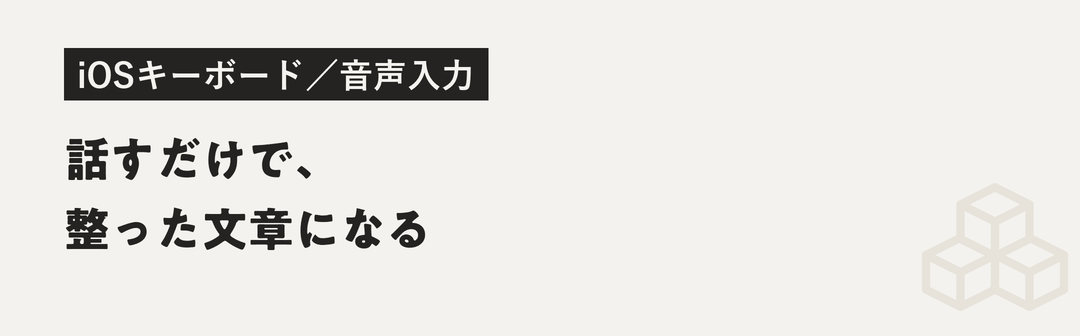
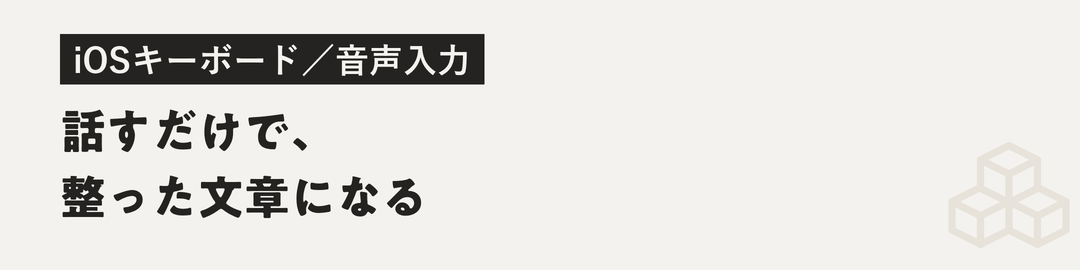
画像をさらに縮小し、スマホ／PCで横幅を分けた
■ 横幅（本人選択）
- スマホ 335→300px（本文より左右18pxずつ内側・中央寄せ）
- PC     440→380px（左寄せ。容器860pxで中央にすると左右240px空いて本文から浮くため）
- CSS を `max-width:300px` ＋ `@media(min-width:481px){380px}` に分離

■ 画面上の文字サイズは据え置き（見出し17.5 / 要点12.5 / キッカー11.9px）
- ⚠ 横幅だけ縮めると画像内の文字も一緒に縮む。画像の横解像度も同じ比率で縮めた
  （W_COVER 1080→960）。帯はカード幅いっぱいのままなので 1080 を維持し、W を用途別に分離

■ 高さ
- ⚠ 横解像度だけ縮めても高さは縮まない（縦横比が縦長になって相殺される）。
  縦の余白・行送りも詰めた：カバー 748→650px（描画 233→204px／PC 258px）
- 帯 336→270px（描画 97→78px）。一覧カード 248→230px、看板カード 240→222px
- 縦を詰めたぶん透かしの積み木が要点の最終行に触れたので、右下の隅へ寄せた（300→210px）
- 幅が狭くなり1行に入る字数が減るため、19字の要点2本を短縮

■ 検証
375 / 1280px の10画面で横はみ出しなし・コンソールエラーなし。画像15枚 768KB→714KB
style.css v88→v90

Changed region(s): [[0.0306, 0.1185, 0.4583, 0.3259], [0.0611, 0.6222, 0.3972, 0.8296], [0.0611, 0.3852, 0.3056, 0.563]]

diff --git a/index.html b/index.html
@@ -12,7 +12,7 @@
 <link rel="preconnect" href="https://fonts.googleapis.com">
 <link rel="preconnect" href="https://fonts.gstatic.com" crossorigin>
 <link href="https://fonts.googleapis.com/css2?family=Zen+Maru+Gothic:wght@400;500;700&display=swap" rel="stylesheet">
-<link rel="stylesheet" href="style.css?v=88">
+<link rel="stylesheet" href="style.css?v=90">
 <link rel="icon" type="image/png" href="icons/icon-index.png?v=2">
 <link rel="apple-touch-icon" href="icons/icon-index.png?v=2">
 <meta name="apple-mobile-web-app-title" content="つみき">
@@ -235,8 +235,8 @@
       <p class="sheet-lead">仕事とは別に、自分が本当に欲しくてつくった2つのiOSアプリ。ゼロから設計・デザイン・実装まで手がけました。カードをタップすると、それぞれの詳しい紹介が開きます。</p>
       <div class="flagship">
         <a class="flag-card has-strip" data-go="flagship-itsutsu" href="#">
-          <img class="flag-strip" src="assets/covers/strip-itsutsu.png?v=3"
-               width="1080" height="336" loading="lazy" alt="いつつ。iOSアプリ／動画日記。1日に5回、各2秒。夜、1本の動画になる。">
+          <img class="flag-strip" src="assets/covers/strip-itsutsu.png?v=6"
+               width="1080" height="270" loading="lazy" alt="いつつ。iOSアプリ／動画日記。1日に5回、各2秒。夜、1本の動画になる。">
           <img class="flag-icon" src="assets/icon-itsutsu.png" alt="いつつ アイコン" width="132" height="132" loading="lazy">
           <div class="flag-body">
             <div class="flag-name">いつつ</div>
@@ -246,8 +246,8 @@
           <span class="flag-ar" aria-hidden="true">→</span>
         </a>
         <a class="flag-card has-strip" data-go="flagship-koegaki" href="#">
-          <img class="flag-strip" src="assets/covers/strip-koegaki.png?v=3"
-               width="1080" height="336" loading="lazy" alt="こえがき。iOSキーボード／音声入力。話すだけで、整った文章になる。">
+          <img class="flag-strip" src="assets/covers/strip-koegaki.png?v=6"
+               width="1080" height="270" loading="lazy" alt="こえがき。iOSキーボード／音声入力。話すだけで、整った文章になる。">
           <img class="flag-icon" src="assets/icon-koegaki.png" alt="こえがき アイコン" width="132" height="132" loading="lazy">
           <div class="flag-body">
             <div class="flag-name">こえがき</div>
@@ -323,7 +323,7 @@
       <p class="as-h">紹介<span class="as-h-en">ABOUT</span></p>
       <!-- 要約カバー（紙×墨・tools/make_app_covers.py で生成）。画像の中身は alt にも文字で入れてある -->
       <figure class="as-cover">
-        <img src="assets/covers/cover-itsutsu.png?v=3" width="1080" height="748"
+        <img src="assets/covers/cover-itsutsu.png?v=6" width="960" height="650"
              loading="lazy" alt="いつつ（iOSアプリ／動画日記）。見出し「1日に5回、各2秒。夜、1本の動画になる」。要点：撮るのは1回2秒で、身構えずに済む／5つ撮ると、今日が満ちる／夜に自動で1本（最大10秒）に連結／文字のない、モノクロの動画日記。">
       </figure>
 
@@ -442,7 +442,7 @@
       <p class="as-h">紹介<span class="as-h-en">ABOUT</span></p>
       <!-- 要約カバー（紙×墨・tools/make_app_covers.py で生成）。画像の中身は alt にも文字で入れてある -->
       <figure class="as-cover">
-        <img src="assets/covers/cover-koegaki.png?v=3" width="1080" height="748"
+        <img src="assets/covers/cover-koegaki.png?v=6" width="960" height="650"
              loading="lazy" alt="こえがき（iOSキーボード／音声入力）。見出し「話すだけで、整った文章になる」。要点：キーボードのマイクをタップして話すだけ／AIがフィラーを消し、句読点を整える／音声もAIの整形も、端末の外に出ない／機内モードでも動く、月額なし。">
       </figure>
 
@@ -487,8 +487,8 @@
 
       <div class="app-feature">
         <a class="app-card has-strip" data-go="app-kouban" href="#">
-            <img class="app-card-strip" src="assets/covers/strip-kouban.png?v=3"
-                 width="1080" height="336" loading="lazy" alt="">
+            <img class="app-card-strip" src="assets/covers/strip-kouban.png?v=6"
+                 width="1080" height="270" loading="lazy" alt="">
           <img class="app-card-ico" src="assets/icon-kouban.png?v=1" alt="香盤メーカー アイコン" width="72" height="72" loading="lazy">
           <span class="app-card-body">
             <span class="app-card-name">香盤メーカー</span>
@@ -498,8 +498,8 @@
           <span class="app-card-ar" aria-hidden="true">→</span>
         </a>
         <a class="app-card has-strip" data-go="app-mazeiro" href="#">
-            <img class="app-card-strip" src="assets/covers/strip-mazeiro.png?v=3"
-                 width="1080" height="336" loading="lazy" alt="">
+            <img class="app-card-strip" src="assets/covers/strip-mazeiro.png?v=6"
+                 width="1080" height="270" loading="lazy" alt="">
           <img class="app-card-ico" src="assets/icon-mazeiro.png?v=1" alt="まぜいろ アイコン" width="72" height="72" loading="lazy">
           <span class="app-card-body">
             <span class="app-card-name">まぜいろ</span>
@@ -509,8 +509,8 @@
           <span class="app-card-ar" aria-hidden="true">→</span>
         </a>
         <a class="app-card has-strip" data-go="app-credit" href="#">
-            <img class="app-card-strip" src="assets/covers/strip-credit.png?v=3"
-                 width="1080" height="336" loading="lazy" alt="">
+            <img class="app-card-strip" src="assets/covers/strip-credit.png?v=6"
+                 width="1080" height="270" loading="lazy" alt="">
           <img class="app-card-ico" src="assets/icon-credit.png?v=2" alt="クレカ明細 アイコン" width="72" height="72" loading="lazy">
           <span class="app-card-body">
             <span class="app-card-name">クレカ明細</span>
@@ -527,8 +527,8 @@
         <p class="app-group-note">労働者と管理者、<strong>対で使う2つ</strong>。現場で打刻し、会社側はそのまま集計。データはクラウドで共有されます。</p>
         <div class="app-group-cards">
           <a class="app-card has-strip" data-go="app-dakoku" href="#">
-            <img class="app-card-strip" src="assets/covers/strip-dakoku.png?v=3"
-                 width="1080" height="336" loading="lazy" alt="">
+            <img class="app-card-strip" src="assets/covers/strip-dakoku.png?v=6"
+                 width="1080" height="270" loading="lazy" alt="">
             <img class="app-card-ico" src="assets/icon-dakoku.png?v=1" alt="打刻 アイコン" width="72" height="72" loading="lazy">
             <span class="app-card-body">
               <span class="app-card-name">打刻<span class="app-card-role">労働者用</span></span>
@@ -538,8 +538,8 @@
             <span class="app-card-ar" aria-hidden="true">→</span>
           </a>
           <a class="app-card has-strip" data-go="app-dakoku-kanri" href="#">
-            <img class="app-card-strip" src="assets/covers/strip-dakoku-kanri.png?v=3"
-                 width="1080" height="336" loading="lazy" alt="">
+            <img class="app-card-strip" src="assets/covers/strip-dakoku-kanri.png?v=6"
+                 width="1080" height="270" loading="lazy" alt="">
             <img class="app-card-ico" src="assets/icon-dakoku-kanri.png?v=1" alt="打刻管理 アイコン" width="72" height="72" loading="lazy">
             <span class="app-card-body">
               <span class="app-card-name">打刻管理<span class="app-card-role">管理者用</span></span>
@@ -578,7 +578,7 @@
 
       <!-- 要約カバー（紙×墨・tools/make_app_covers.py で生成）。画像の中身は alt にも文字で入れてある -->
       <figure class="as-cover">
-        <img src="assets/covers/cover-kouban.png?v=3" width="1080" height="748"
+        <img src="assets/covers/cover-kouban.png?v=6" width="960" height="650"
              loading="lazy" alt="香盤メーカー（舞台・稽古／スケジュール）。見出し「欠席者を選ぶだけで「今日できる場面」が出る」。要点：各場面の出演者を、一度だけ登録／欠席をタップすると、できる場面を自動抽出／香盤表をA4のPDFで書き出し／ブラウザだけで動く、インストール不要。">
       </figure>
 
@@ -673,7 +673,7 @@
 
       <!-- 要約カバー（紙×墨・tools/make_app_covers.py で生成）。画像の中身は alt にも文字で入れてある -->
       <figure class="as-cover">
-        <img src="assets/covers/cover-mazeiro.png?v=3" width="1080" height="748"
+        <img src="assets/covers/cover-mazeiro.png?v=6" width="960" height="650"
              loading="lazy" alt="まぜいろ（美容室／ヘアカラー配合）。見出し「レシピの比率から、必要なグラムを即計算」。要点：比率と作りたい総量を入れるだけ／2剤（オキシ）の倍率にも対応／総量からの逆算もできる／混ぜ間違いによる材料のロスを減らす。">
       </figure>
 
@@ -752,7 +752,7 @@
 
       <!-- 要約カバー（紙×墨・tools/make_app_covers.py で生成）。画像の中身は alt にも文字で入れてある -->
       <figure class="as-cover">
-        <img src="assets/covers/cover-credit.png?v=3" width="1080" height="748"
+        <img src="assets/covers/cover-credit.png?v=6" width="960" height="650"
              loading="lazy" alt="クレカ明細（経理・家計／明細の自動集計）。見出し「明細CSVを読み込むだけで、カテゴリ別に自動集計」。要点：CSVを放り込むと、カテゴリ別に自動集計／立て替えと分割払いを切り分け／「自分の実質支出」と前月比を自動算出／手作業の仕分けを、ゼロにする。">
       </figure>
 
@@ -835,7 +835,7 @@
 
       <!-- 要約カバー（紙×墨・tools/make_app_covers.py で生成）。画像の中身は alt にも文字で入れてある -->
       <figure class="as-cover">
-        <img src="assets/covers/cover-dakoku.png?v=3" width="1080" height="748"
+        <img src="assets/covers/cover-dakoku.png?v=6" width="960" height="650"
              loading="lazy" alt="打刻（人材派遣／勤怠・労働者用）。見出し「出勤と退勤を、大きなボタンでタップ」。要点：打刻はタップ1回で、紙のシートが不要／自分の勤務記録と月の合計をその場で確認／交通費・定期もそのまま残せる／打刻はクラウドで会社と共有される。">
       </figure>
 
@@ -930,7 +930,7 @@
 
       <!-- 要約カバー（紙×墨・tools/make_app_covers.py で生成）。画像の中身は alt にも文字で入れてある -->
       <figure class="as-cover">
-        <img src="assets/covers/cover-dakoku-kanri.png?v=3" width="1080" height="748"
+        <img src="assets/covers/cover-dakoku-kanri.png?v=6" width="960" height="650"
              loading="lazy" alt="打刻管理（人材派遣／勤怠・管理者用）。見出し「現場の打刻から、請求算定まで一本に」。要点：従業員ごとに打刻コードを発行するだけ／全員の打刻が集まり、月度で自動集計／勤怠管理表をExcel・PDFで書き出し／請求算定まで、そのまま通る。">
       </figure>
 
@@ -1904,7 +1904,7 @@
       <p class="sheet-lead">下の目安は「これ一式でいくらか」という<strong>総額</strong>です。ヒアリングとお見積りは無料です。</p>
 
       <figure class="as-cover is-opener">
-        <img src="assets/covers/cover-pricing.png?v=3" width="1080" height="748" loading="lazy"
+        <img src="assets/covers/cover-pricing.png?v=6" width="960" height="650" loading="lazy"
              alt="つみきの料金について。金額は、あとから膨らみません。ヒアリングとお見積りは無料です／着手後、金額は変わりません／月額の縛りなし、やめても動きます／ソースコード一式をお渡しします。">
       </figure>
 

diff --git a/style.css b/style.css
@@ -1150,12 +1150,18 @@ body.on-dark .tb-brand{color:#F4F2EE;
    画像の地色が紙と同じなので、縁が無いと輪郭が消える → 罫線＋角丸でカード化する */
 .as-cover{margin-top:20px;}
 /* ⚠ max-width が要。画像は容器に合わせて伸びるが、ページの文字は伸びない。
-   幅100%のままだと desktop(容器860px)で画像内の見出しが44.6pxになり、
-   ページで最大の .as-name 26px を大きく超えて浮く（2026-08-08 実測）。
-   440px に留めると 見出し22.8px / 要点16.3px ＝ .as-name 26 と .as-about 16 に収まる。
-   375px では描画335pxなので、この上限は効かない（モバイルの見えは変わらない） */
-.as-cover img{display:block; width:100%; max-width:440px; height:auto;
+   上限を外すと desktop(容器860px)で画像内の見出しが44.6pxになり、ページで最大の
+   .as-name 26px を大きく超えて浮く（2026-08-08 実測）。スマホとPCで別に持つ：
+     スマホ 300px … 本文335pxより一段内側。画像内は 見出し17.5 / 要点12.5px
+     PC     380px … 画像内は 見出し22.2 / 要点15.8px（ページ本文16pxと釣り合う）
+   中央寄せなのは、左寄せだと右だけ35px空いて崩れて見えるため。
+   ⚠ 幅を変えるときは tools/make_app_covers.py の W_COVER も同じ比率で変える
+      （画像の解像度を据え置くと、画面上の文字まで一緒に縮む） */
+.as-cover img{display:block; width:100%; max-width:300px; height:auto; margin:0 auto;
   border:1px solid var(--line); border-radius:var(--radius);}
+/* PCは左寄せ。容器860pxの中で380pxを中央に置くと左右に240pxずつ空いて、
+   左揃えの本文から切り離されて見える。スマホは余白が左右18pxずつなので中央のままでよい */
+@media(min-width:481px){ .as-cover img{max-width:380px; margin-left:0;} }
 /* 節の冒頭に置く版（料金ページ）。リード文のすぐ下なので上の間隔を詰める */
 .as-cover.is-opener{margin-top:16px;}
 

diff --git a/tools/make_app_covers.py b/tools/make_app_covers.py
@@ -50,7 +50,10 @@ import os
 import cairosvg
 from PIL import Image, ImageDraw, ImageFont
 
-W = 1080                   # 横幅（固定）。縦は中身の行数から自動で決まる
+# 横解像度。**描画幅を縮めるときは、ここも同じ比率で縮める**こと。
+# そうしないと画面上の文字まで一緒に小さくなる（画像内の文字サイズは据え置きでよい）。
+W_COVER = 960              # 描画 スマホ300px / PC380px → 倍率 0.313 / 0.396
+W_STRIP = 1080             # 帯はカード幅いっぱい。描画 スマホ306px / PC390px → 0.283 / 0.361
 S = 2                      # 2倍でレンダ→縮小（文字を締める）
 
 # 画像内のフォントサイズ。右のコメントが iPhone375px での実効サイズ＝これが正。
@@ -124,7 +127,7 @@ def wrap(draw, text, font, max_w):
     return lines
 
 
-def save(im, H, path):
+def save(im, W, H, path):
     flat = im.resize((W, H), Image.LANCZOS)
     flat = flat.convert("P", palette=Image.ADAPTIVE, colors=128)  # 3色設計なので減色で劣化しない
     flat.save(path, "PNG", optimize=True)
@@ -132,45 +135,49 @@ def save(im, H, path):
 
 
 def strip(slug, kicker, head):
-    """一覧カード用の帯（1080x336）。iPhone375px で 306x95 に描画される。
+    """一覧カード用の帯（1080x270）。iPhone375px で 306x76 に描画される。
 
     一覧の仕事は「explanation」ではなく「recognition」なので、要点は載せない。
     キッカーと見出しだけ。載せると下の1行説明と重複するうえ、カードが縦に伸びて
     一覧が一覧でなくなる。
     """
-    HS = 336
-    M = 64 * S
+    W, HS = W_STRIP, 270
+    M = 60 * S
     im = Image.new("RGB", (W * S, HS * S), PAPER)
     d = ImageDraw.Draw(im)
 
-    big = logo(230 * S, stroke="#E7E3DB", sw=3.6)
-    im.paste(big, (W * S - big.width + 30 * S, HS * S - big.height + 26 * S), big)
+    big = logo(190 * S, stroke="#E7E3DB", sw=3.8)
+    im.paste(big, (W * S - big.width + 24 * S, HS * S - big.height + 20 * S), big)
 
     kf = f(FONT_BODB, STRIP_KICK)
     kw = d.textlength(kicker, font=kf)
-    d.rectangle([M, 48 * S, M + kw + 26 * S, 48 * S + 52 * S], fill=INK)
-    d.text((M + 13 * S, 58 * S), kicker, font=kf, fill=PAPER)
+    d.rectangle([M, 34 * S, M + kw + 26 * S, 34 * S + 50 * S], fill=INK)
+    d.text((M + 13 * S, 43 * S), kicker, font=kf, fill=PAPER)
 
-    y = 136 * S
+    y = 108 * S
     hf = f(FONT_DISP, STRIP_HEAD)
     for ln in head:
         d.text((M, y), ln, font=hf, fill=INK)
-        y += 70 * S
+        y += 66 * S
 
     os.makedirs(OUT, exist_ok=True)
-    save(im, HS, os.path.join(OUT, f"strip-{slug}.png"))
+    save(im, W, HS, os.path.join(OUT, f"strip-{slug}.png"))
 
 
 def cover(slug, kicker, head, bullets):
-    """詳細ページ先頭の要約カバー。iPhone375px で 335 x 約233px に描画される。
+    """詳細ページ先頭の要約カバー。描画は スマホ300x約203px / PC380x約257px。
 
-    ロゴ・アプリ名・URL は入れない（冒頭の「入れていないもの」参照）。そのぶん
-    縦が 1154 → 750前後 まで縮み、ページの中で浮かなくなる。
+    ロゴ・アプリ名・URL は入れない（冒頭の「入れていないもの」参照）。
+    横解像度を 1080→960 にしてあるのは、描画幅を 335→300px に縮めても
+    画面上の文字サイズが変わらないようにするため（倍率 0.310→0.313 でほぼ同じ）。
     """
-    M = 72 * S
-    right = (W - 72) * S
-    KICK_TOP, HEAD_TOP, HEAD_STEP = 64, 168, 78
-    LINE_H, GAP = 56, 20                       # 要点の行送りと項目間
+    W = W_COVER
+    M = 64 * S
+    right = (W - 64) * S
+    # ⚠ 横解像度だけ縮めても高さは縮まない（縦横比が縦長になって相殺される）。
+    #    小さくしたいときは、この縦の数値も一緒に詰めること。
+    KICK_TOP, HEAD_TOP, HEAD_STEP = 48, 138, 72
+    LINE_H, GAP = 52, 16                       # 要点の行送りと項目間
 
     if len(head) > 2:
         raise ValueError(f"{slug}: 見出しは2行まで（ページの見出し階層を超える）")
@@ -179,22 +186,23 @@ def cover(slug, kicker, head, bullets):
     probe = ImageDraw.Draw(Image.new("RGB", (10, 10)))
     bf = f(FONT_BODY, COVER_BODY)
     bullet_lines = [wrap(probe, b, bf, right - M - 34 * S) for b in bullets]
-    rule_y = HEAD_TOP + HEAD_STEP * len(head) + 20
-    bullets_top = rule_y + 44
-    H = bullets_top + sum(len(ls) * LINE_H + GAP for ls in bullet_lines) + 56
+    rule_y = HEAD_TOP + HEAD_STEP * len(head) + 16
+    bullets_top = rule_y + 36
+    H = bullets_top + sum(len(ls) * LINE_H + GAP for ls in bullet_lines) + 44
 
     im = Image.new("RGB", (W * S, H * S), PAPER)
     d = ImageDraw.Draw(im)
 
     # 右下の余白に淡い積み木（紙の質感の代わり）
-    big = logo(300 * S, stroke="#E7E3DB", sw=3.4)
-    im.paste(big, (W * S - big.width + 40 * S, H * S - big.height + 34 * S), big)
+    # ⚠ 縦を詰めたぶん要点の最終行に近づく。積み木は右下の隅へ逃がすこと
+    big = logo(210 * S, stroke="#E7E3DB", sw=3.6)
+    im.paste(big, (W * S - big.width + 55 * S, H * S - big.height + 45 * S), big)
 
     # キッカー（黒地の小さなラベル）
     kf = f(FONT_BODB, COVER_KICK)
     kw = d.textlength(kicker, font=kf)
-    d.rectangle([M, KICK_TOP * S, M + kw + 28 * S, (KICK_TOP + 58) * S], fill=INK)
-    d.text((M + 14 * S, (KICK_TOP + 12) * S), kicker, font=kf, fill=PAPER)
+    d.rectangle([M, KICK_TOP * S, M + kw + 28 * S, (KICK_TOP + 54) * S], fill=INK)
+    d.text((M + 14 * S, (KICK_TOP + 10) * S), kicker, font=kf, fill=PAPER)
 
     # 見出し（A1ゴシック・最大2行）
     y = HEAD_TOP * S
@@ -211,13 +219,13 @@ def cover(slug, kicker, head, bullets):
     for lines in bullet_lines:
         for i, ln in enumerate(lines):
             if i == 0:
-                d.ellipse([M + 3 * S, y + 19 * S, M + 15 * S, y + 31 * S], fill=GHOST)
+                d.ellipse([M + 3 * S, y + 17 * S, M + 15 * S, y + 29 * S], fill=GHOST)
             d.text((M + indent, y), ln, font=bf, fill=SUB)
             y += LINE_H * S
         y += GAP * S
 
     os.makedirs(OUT, exist_ok=True)
-    save(im, H, os.path.join(OUT, f"cover-{slug}.png"))
+    save(im, W, H, os.path.join(OUT, f"cover-{slug}.png"))
 
 
 # ---------------------------------------------------------------- 詳細ページの要約カバー
@@ -248,7 +256,7 @@ cover("credit", "経理・家計／明細の自動集計",
 cover("dakoku", "人材派遣／勤怠・労働者用",
       ["出勤と退勤を、", "大きなボタンでタップ"],
       ["打刻はタップ1回。紙のシートが不要",
-       "自分の勤務記録と月の合計をその場で確認",
+       "勤務記録と月の合計をその場で確認",
        "交通費・定期もそのまま残せる",
        "打刻はクラウドで会社と共有される"])
 
@@ -269,7 +277,7 @@ cover("itsutsu", "iOSアプリ／動画日記",
 
 cover("koegaki", "iOSキーボード／音声入力",
       ["話すだけで、", "整った文章になる"],
-      ["キーボードのマイクをタップして話すだけ",
+      ["マイクをタップして話すだけ",
        "AIがフィラーを消し、句読点を整える",
        "音声もAIの整形も、端末の外に出ない",
        "機内モードでも動く。月額なし"])
